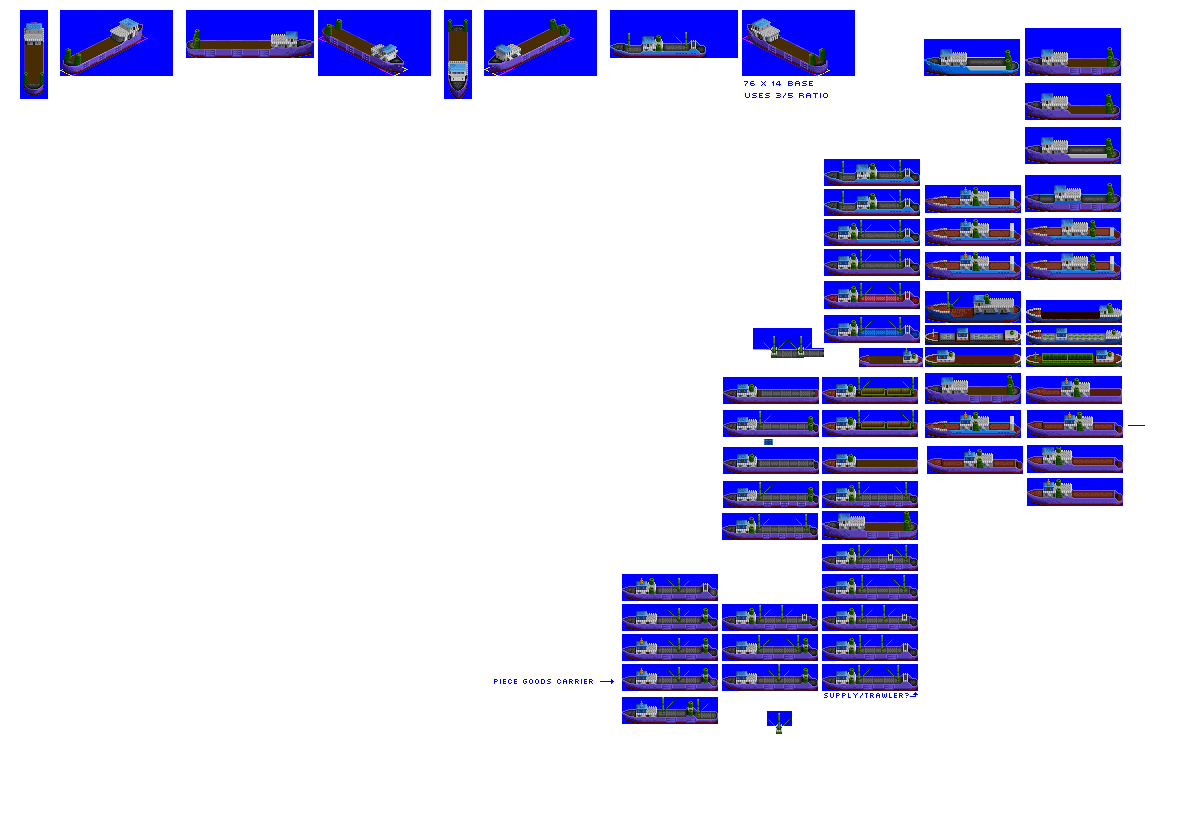
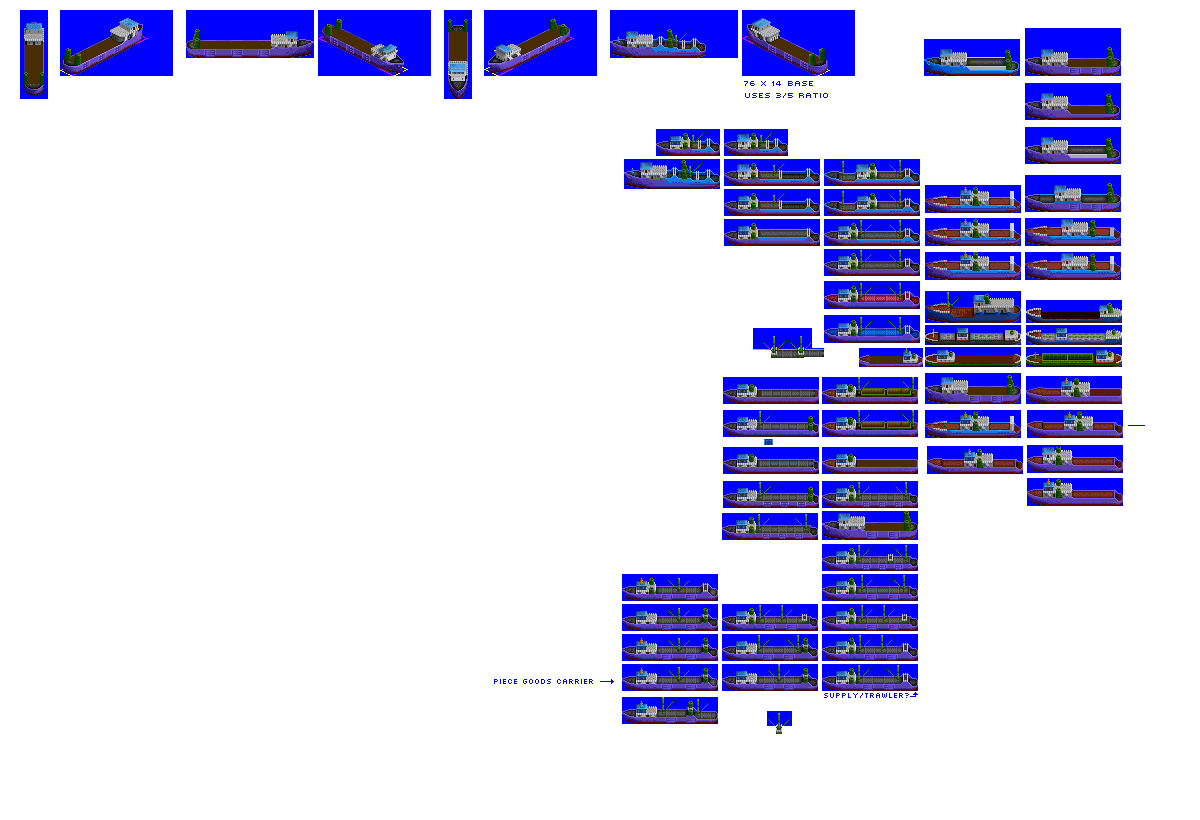
Change: WIP on trawlers

Changed region(s): [[0.5242, 0.1524, 0.7092, 0.3049], [0.4933, 0.0305, 0.5858, 0.0915]]

diff --git a/src/hulls.py b/src/hulls.py
@@ -110,6 +110,24 @@ class ShipHouseForwardSmall(Hull):
         self.effects_positions = [(11, 0, 24)]
 
 
+class TempMiniHouseForward(Hull):
+    def __init__(self):
+        self.size_class = 'mini'
+        self.hull_type = 'temp'
+        self.house_position = 'rear'
+        self.load_state_y_offsets = [('empty', -1), ('part_load', 0), ('full_load', 1)]
+        self.effects_positions = [(6, 0, 12)]
+
+
+class TempSmallHouseForward(Hull):
+    def __init__(self):
+        self.size_class = 'small'
+        self.hull_type = 'temp'
+        self.house_position = 'rear'
+        self.load_state_y_offsets = [('empty', -1), ('part_load', 0), ('full_load', 1)]
+        self.effects_positions = [(6, 0, 12)]
+
+
 class TwoWayFerryMini(Hull):
     def __init__(self):
         self.size_class = 'mini'
@@ -127,4 +145,6 @@ registered_hulls = {'BargeHouseRearMicro': BargeHouseRearMicro(),
                     'ShipHouseForwardSmall': ShipHouseForwardSmall(),
                     'ShipHouseRearLarge': ShipHouseRearLarge(),
                     'ShipHouseRearSmall': ShipHouseRearSmall(),
+                    'TempMiniHouseForward': TempMiniHouseForward(),
+                    'TempSmallHouseForward': TempSmallHouseForward(),
                     'TwoWayFerryMini': TwoWayFerryMini()}

diff --git a/src/ships/trawler_small.py b/src/ships/trawler_small.py
@@ -4,7 +4,7 @@ from ship import Trawler
 ship = Trawler(id = 'trawler_small',
             numeric_id = 13,
             title = '[Trawler]',
-            hull = 'ShipHouseRearSmall',
+            hull = 'TempSmallHouseForward',
             buy_cost = 28,
             fixed_run_cost_factor = 3.5,
             fuel_run_cost_factor = 1.0,

diff --git a/src/ships/trawler_mini.py b/src/ships/trawler_mini.py
@@ -4,7 +4,7 @@ from ship import Trawler
 ship = Trawler(id = 'trawler_mini',
             numeric_id = 12,
             title = '[Trawler]',
-            hull = 'BargeHouseRearMini',
+            hull = 'TempMiniHouseForward',
             buy_cost = 28,
             fixed_run_cost_factor = 3.5,
             fuel_run_cost_factor = 1.0,
